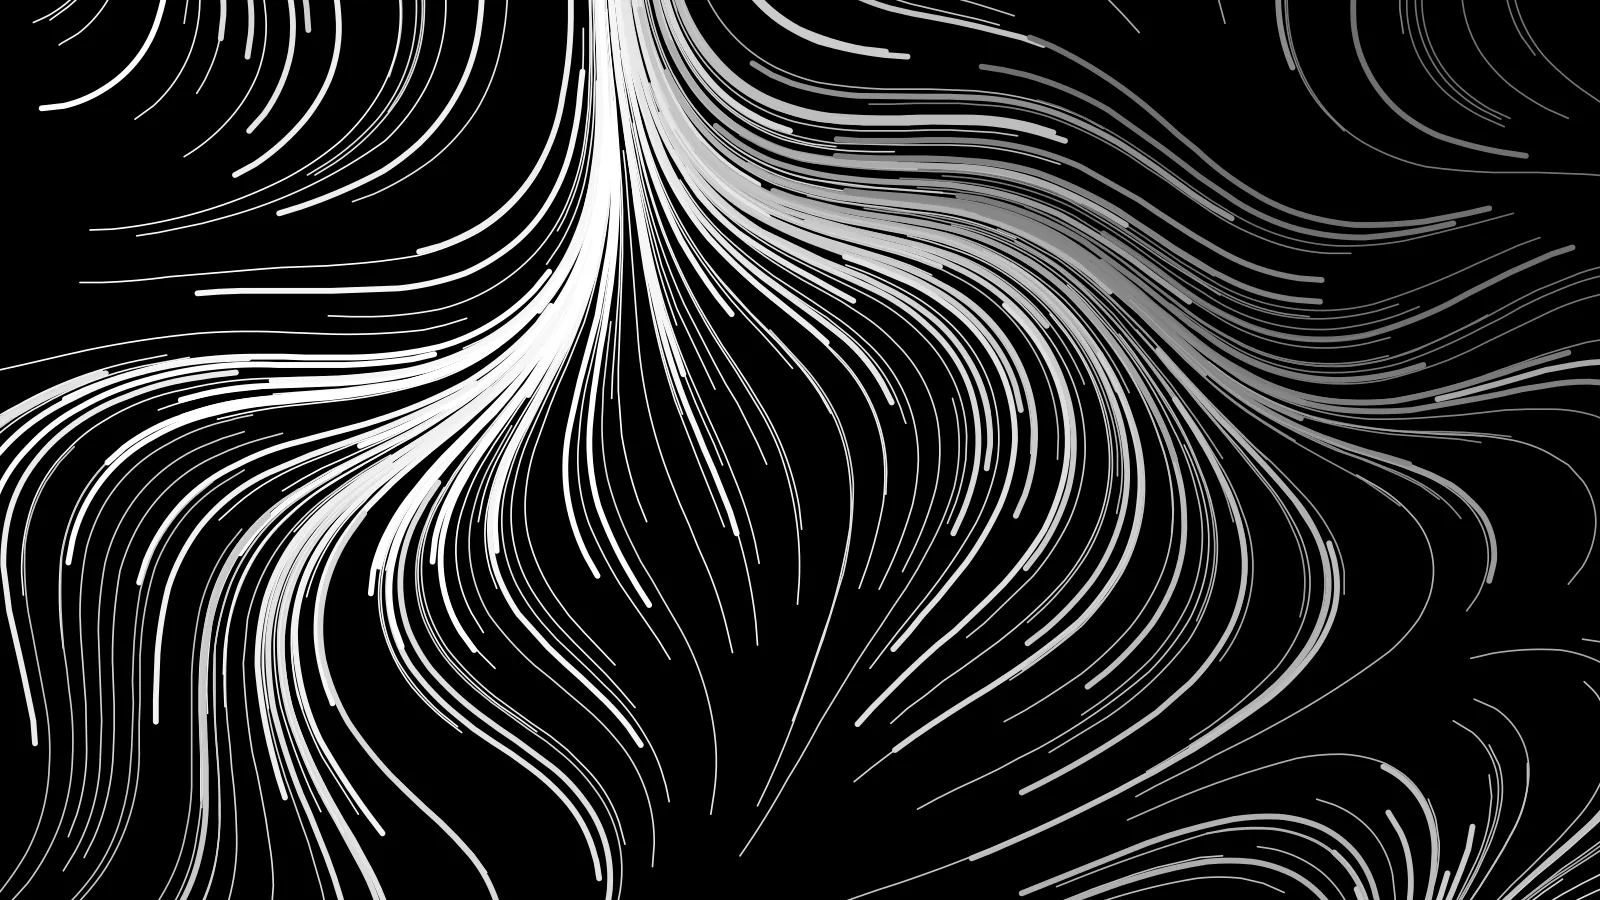
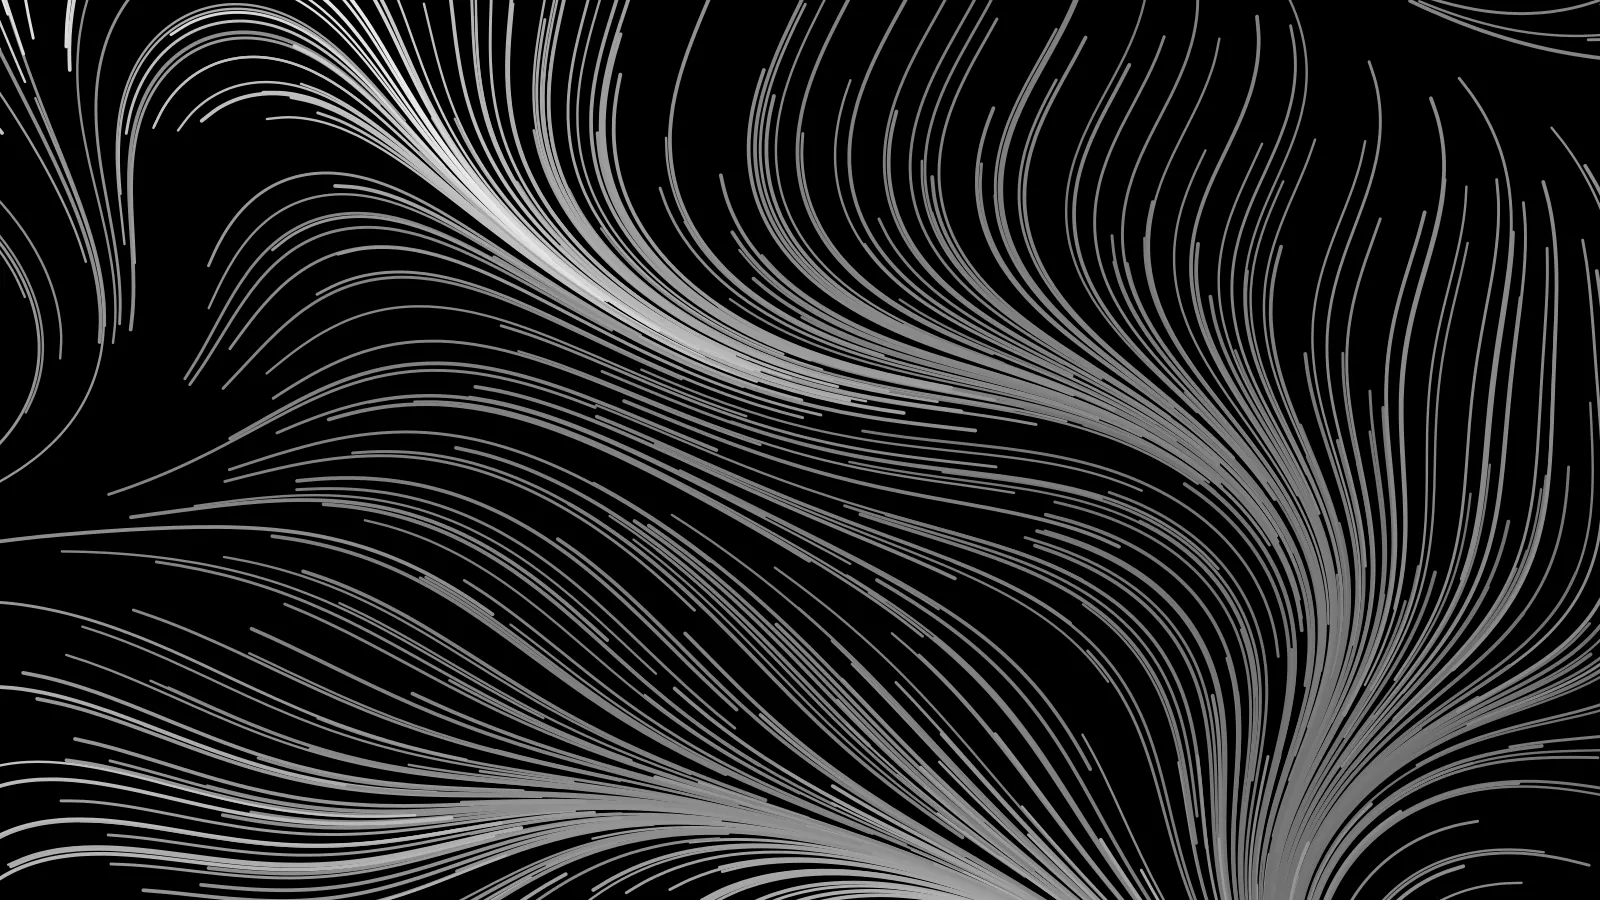
Background: Ember flow lines recoloured into the green ASCII field, anchored to the footer and revealed bottom-up

diff --git a/src/styles/global.css b/src/styles/global.css
@@ -2215,6 +2215,30 @@ html.dark {
     margin-bottom: 1rem;
 }
 
+.flow-bg--ascii {
+    inset: auto 0 0 0;
+    -webkit-mask-image: radial-gradient(ellipse 90% 100% at 50% 100%, #000 0%, rgb(0 0 0 / 0.7) 42%, transparent 82%), linear-gradient(to right, #000 0%, rgb(0 0 0 / 0.75) 22%, rgb(0 0 0 / 0.45) 50%, rgb(0 0 0 / 0.75) 78%, #000 100%), linear-gradient(to top, #000 0%, #000 33%, transparent 66%, transparent 100%);
+    mask-image: radial-gradient(ellipse 90% 100% at 50% 100%, #000 0%, rgb(0 0 0 / 0.7) 42%, transparent 82%), linear-gradient(to right, #000 0%, rgb(0 0 0 / 0.75) 22%, rgb(0 0 0 / 0.45) 50%, rgb(0 0 0 / 0.75) 78%, #000 100%), linear-gradient(to top, #000 0%, #000 33%, transparent 66%, transparent 100%);
+    -webkit-mask-position: 0 0, 0 0, 0 100%;
+    mask-position: 0 0, 0 0, 0 100%;
+}
+
+html.flow-ready .flow-bg--ascii {
+    animation: flow-in-up 3.6s cubic-bezier(0.4, 0, 0.3, 1) 0.1s both;
+}
+
+@keyframes flow-in-up {
+    from {
+        opacity: 0;
+        -webkit-mask-position: 0 0, 0 0, 0 0;
+        mask-position: 0 0, 0 0, 0 0;
+    }
+}
+
+@media (prefers-reduced-motion: reduce) {
+    html.flow-ready .flow-bg--ascii { animation: none; }
+}
+
 .ascii-bg {
     position: absolute;
     inset: 0;
